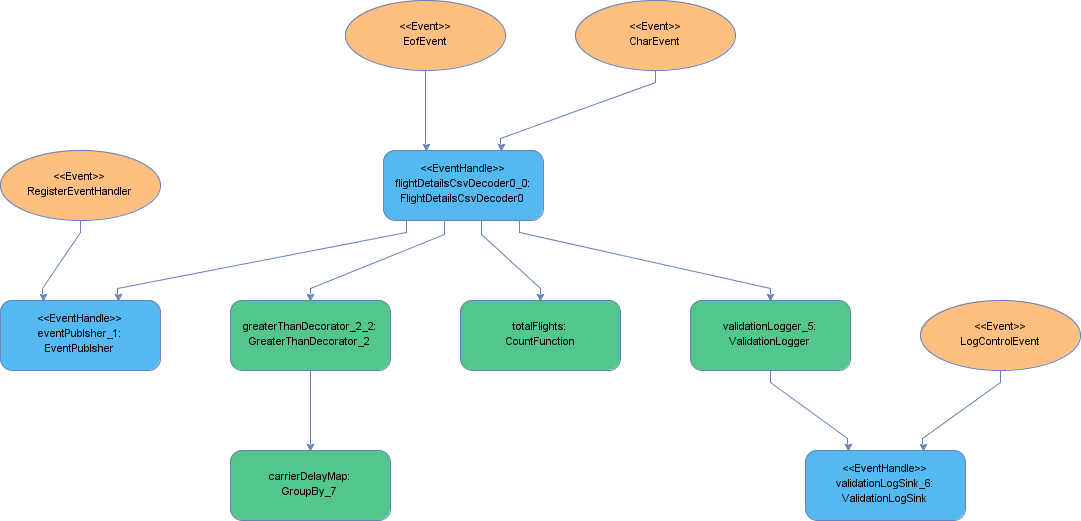
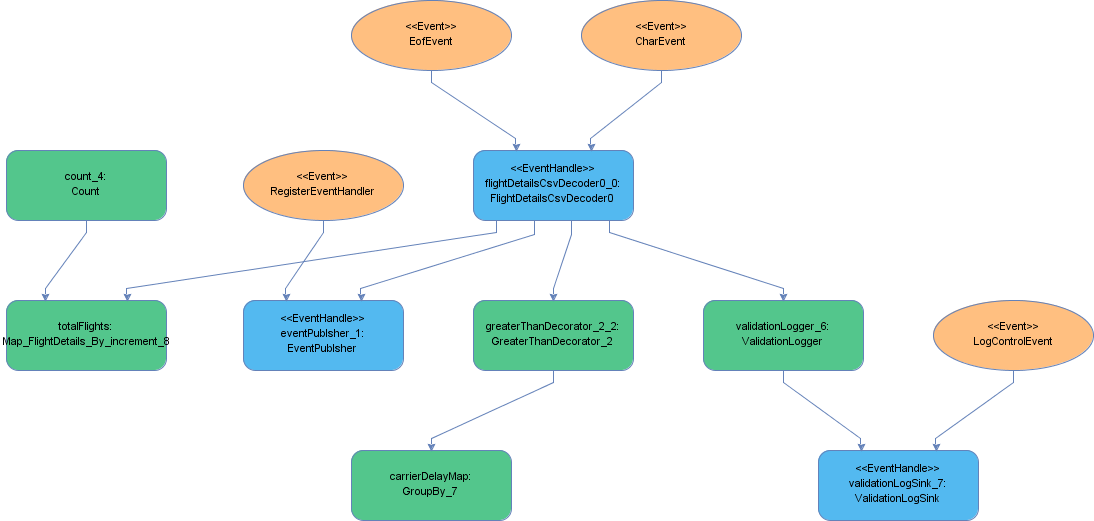
refactored to use math functions in StreamFunctionsHelper

diff --git a/examples/futext-examples/src/test/java/com/fluxtion/ext/futext/example/flightdelay/FlightDelayTest.java b/examples/futext-examples/src/test/java/com/fluxtion/ext/futext/example/flightdelay/FlightDelayTest.java
@@ -19,21 +19,11 @@ package com.fluxtion.ext.futext.example.flightdelay;
 import com.fluxtion.api.annotations.EventHandler;
 import com.fluxtion.api.annotations.FilterType;
 import com.fluxtion.api.annotations.TearDown;
-import com.fluxtion.ext.declarative.api.Wrapper;
-import static com.fluxtion.ext.declarative.builder.group.Group.groupBy;
-import com.fluxtion.ext.declarative.builder.group.GroupByBuilder;
 import com.fluxtion.ext.futext.api.event.CharEvent;
 import com.fluxtion.ext.futext.api.util.CharEventStreamer;
-import com.fluxtion.ext.futext.builder.csv.CharTokenConfig;
-import static com.fluxtion.ext.futext.builder.csv.CsvMarshallerBuilder.csvMarshaller;
-import static com.fluxtion.ext.futext.builder.math.CountBuilder.count;
-import static com.fluxtion.ext.futext.builder.test.GreaterThanHelper.greaterThanFilter;
 import com.fluxtion.generator.compiler.InprocessSepCompiler;
-import static com.fluxtion.generator.compiler.InprocessSepCompiler.DirOptions.JAVA_SRCDIR_OUTPUT;
-import static com.fluxtion.generator.compiler.InprocessSepCompiler.InitOptions.INIT;
 import com.fluxtion.generator.util.ClassUtils;
 import java.io.BufferedOutputStream;
-import java.io.FileNotFoundException;
 import java.io.FileOutputStream;
 import java.io.IOException;
 import java.io.OutputStream;

diff --git a/examples/futext-examples/src/main/java/com/fluxtion/ext/futext/example/flightdelay/AnalysisBuilder.java b/examples/futext-examples/src/main/java/com/fluxtion/ext/futext/example/flightdelay/AnalysisBuilder.java
@@ -19,16 +19,18 @@ package com.fluxtion.ext.futext.example.flightdelay;
 import com.fluxtion.builder.annotation.SepBuilder;
 import com.fluxtion.builder.node.SEPConfig;
 import com.fluxtion.ext.declarative.api.Wrapper;
+import com.fluxtion.ext.declarative.api.numeric.NumericValue;
 import com.fluxtion.ext.declarative.builder.group.Group;
 import static com.fluxtion.ext.declarative.builder.group.Group.groupBy;
 import com.fluxtion.ext.declarative.builder.group.GroupByBuilder;
+import static com.fluxtion.ext.declarative.builder.stream.StreamFunctionsHelper.count;
 import com.fluxtion.ext.futext.api.event.CharEvent;
 import com.fluxtion.ext.futext.builder.csv.CharTokenConfig;
 import com.fluxtion.ext.futext.builder.csv.CsvMarshallerBuilder;
 import static com.fluxtion.ext.futext.builder.csv.CsvMarshallerBuilder.csvMarshaller;
-import static com.fluxtion.ext.futext.builder.math.CountBuilder.count;
 import com.fluxtion.ext.futext.builder.test.GreaterThanHelper;
 import static com.fluxtion.ext.futext.builder.test.GreaterThanHelper.greaterThanFilter;
+import java.util.function.Function;
 
 /**
  *

diff --git a/examples/futext-examples/src/main/java/com/fluxtion/ext/futext/example/flightdelay/Main.java b/examples/futext-examples/src/main/java/com/fluxtion/ext/futext/example/flightdelay/Main.java
@@ -46,7 +46,7 @@ public class Main {
         double duration = (delta / 1_000_000) / 1000.0;
         System.out.println("processed file:" + dataFile.getAbsolutePath());
         processor.carrierDelayMap.getMap().values().stream().map(Wrapper::event).forEach(System.out::println);
-        System.out.println("row count:" + processor.totalFlights.intValue() + "\nprocessing time:" + duration + " seconds");
+        System.out.println("row count:" + processor.totalFlights.event().intValue() + "\nprocessing time:" + duration + " seconds");
     }
 
 }
